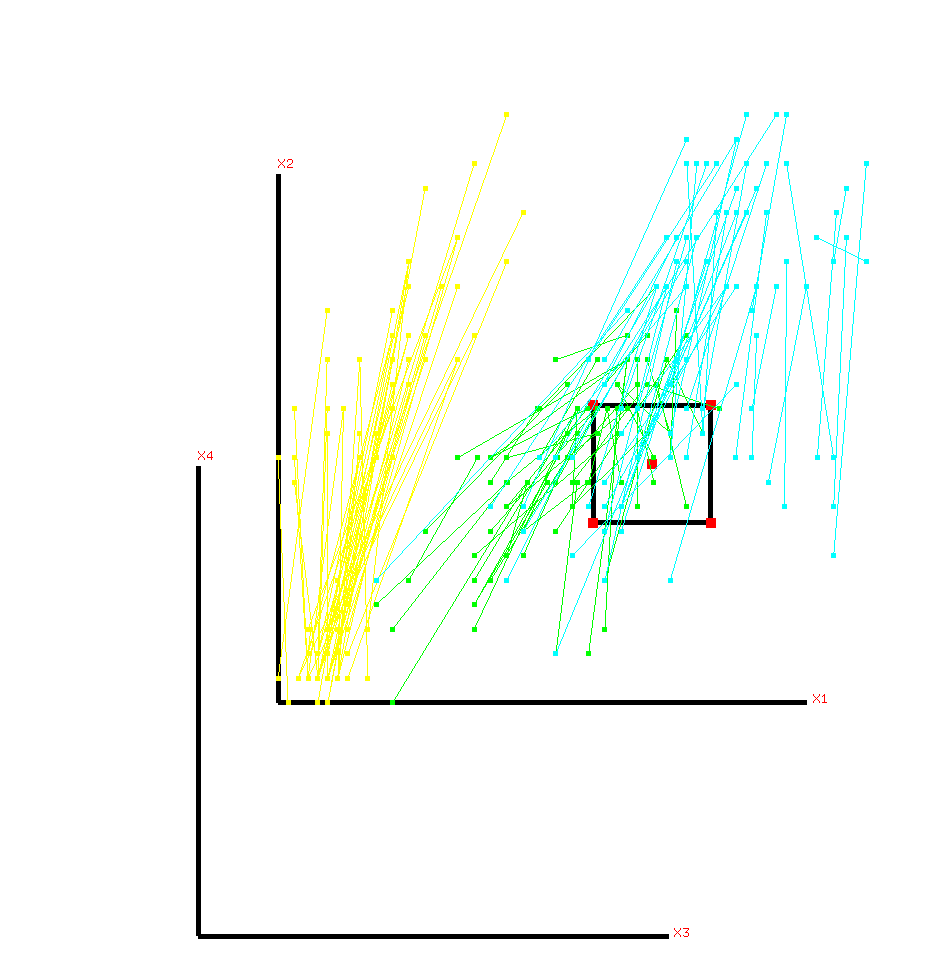
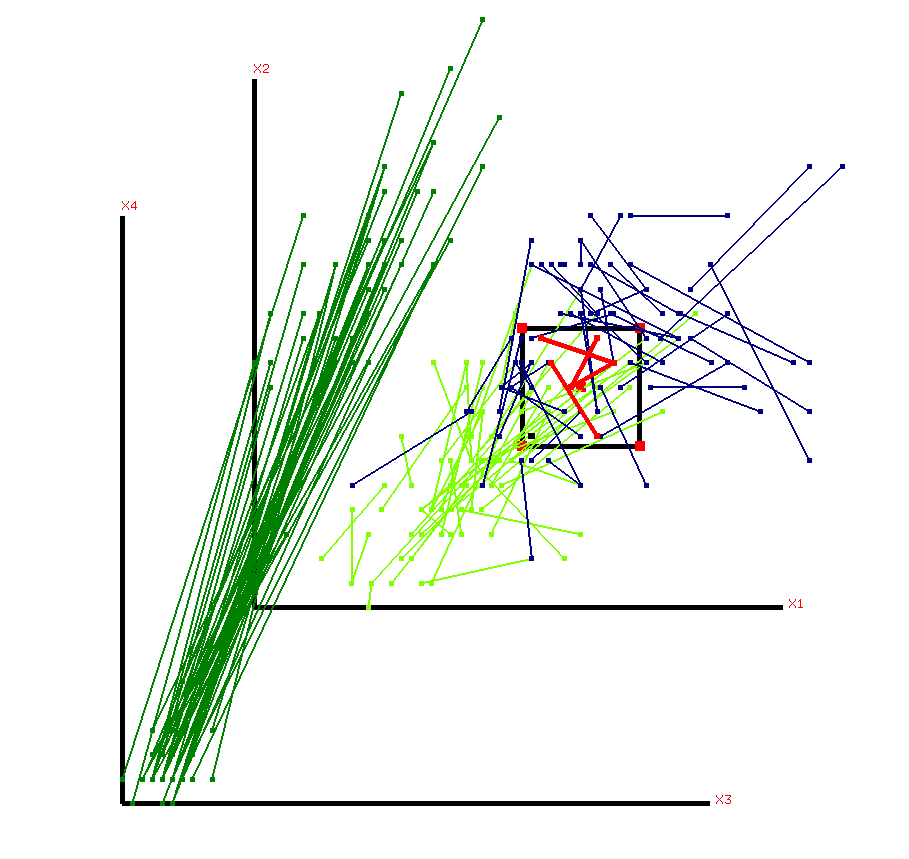
update

diff --git a/Iris_PSPC.py b/Iris_PSPC.py
@@ -15,12 +15,16 @@ iris_data[numerical_cols] = scaler.fit_transform(iris_data[numerical_cols])
 
 iris_data.to_csv('normalized_iris.csv', index=False)
 class_colors = {
-    'Iris-setosa': (1.0, 1.0, 0.0),  
-    'Iris-versicolor': (0.0,  0.5, 0.0),  
+    'Iris-setosa': (0, 0.5, 0.0),  
+    'Iris-versicolor': (0.5 , 1, 0.0),  
     'Iris-virginica': (0.0, 0.0, 0.5)#dark blue
 }
 
-
+class_highlight = {
+    'Iris-setosa': (0, 0, 0.0),  
+    'Iris-versicolor': (0,  0, 0.0),  
+    'Iris-virginica': (1.0, 0.0, 0.0)
+}
 
 def drawText(x, y, text):
     glRasterPos2f(x, y)
@@ -30,10 +34,10 @@ def drawText(x, y, text):
 def find_center():
     virginica_df = iris_data[iris_data['class'] == 'Iris-virginica']
     mean_values = virginica_df.drop(columns=['class']).mean()
-    mean_values['sepal_length']= 0.555555556
-    mean_values['sepal_width']= 0.375
-    mean_values['petal_length']= 0.779661017
-    mean_values['petal_width']=  0.708333333
+    # mean_values['sepal_length']= 0.545
+    # mean_values['sepal_width']= 0.363333
+    # mean_values['petal_length']= 0.662034
+    # mean_values['petal_width']=  0.656667
     return mean_values['sepal_length'], mean_values['sepal_width'], mean_values['petal_length'], mean_values['petal_width']
     
 def draw_axes():
@@ -53,11 +57,11 @@ def draw_axes():
 
     # X3
     glVertex2f(a - c, b - d)
-    glVertex2f(a - c + 0.8, b - d)
+    glVertex2f(a - c + 1, b - d)
 
     # X4
     glVertex2f(a - c , b - d)
-    glVertex2f(a - c, b - d + 0.8)
+    glVertex2f(a - c, b - d + 1)
 
     # Point connected line
     glVertex2f(a - 0.1, b + 0.1)
@@ -91,8 +95,8 @@ def draw_axes():
     # Label
     drawText(0.91, 0.0, "X1")
     drawText(0.0, 0.91, "X2")
-    drawText(a-c+0.8+0.01,b-d, "X3")
-    drawText(a-c,b-d+0.8+0.01, "X4")  
+    drawText(a-c+1+0.01,b-d, "X3")
+    drawText(a-c,b-d+1+0.01, "X4")  
 
 selected_points = []
 
@@ -107,40 +111,40 @@ def draw_iris_data():
     
     # Draw the rest cases
     for index, row in iris_data.iterrows():
-        if not (a - 0.1 <= row['sepal_length'] <= a + 0.1) or not (a - 0.1 <= row['petal_length'] <= a + 0.1) or \
-           not (b - 0.1 <= row['sepal_width'] <= b + 0.1) or not (b - 0.1 <= row['petal_width'] <= b + 0.1):
+        if not (a - 0.1 <= row['sepal_length'] <= a + 0.1) or not (a - 0.1 <= row['petal_length']+(a-c) <= a + 0.1) or \
+           not (b - 0.1 <= row['sepal_width'] <= b + 0.1) or not (b - 0.1 <= row['petal_width'] +(b-d)<= b + 0.1):
             glPointSize(0.5)
             glLineWidth(2)
             glColor3f(*class_colors[row['class']])
 
             glBegin(GL_LINES)
             glVertex2f(row['sepal_length'], row['sepal_width'])
-            glVertex2f(row['petal_length'], row['petal_width'])
+            glVertex2f(row['petal_length']+(a-c), row['petal_width']+(b-d))
             glEnd()
 
             glPointSize(5.0)
             glBegin(GL_POINTS)
             glVertex2f(row['sepal_length'], row['sepal_width'])
-            glVertex2f(row['petal_length'], row['petal_width'])
+            glVertex2f(row['petal_length']+(a-c), row['petal_width']+(b-d))
             glEnd()
 
     # Draw the highlighted cases on top
     for index, row in iris_data.iterrows():
-        if (a - 0.1 <= row['sepal_length'] <= a + 0.1) and (a - 0.1 <= row['petal_length'] <= a + 0.1) and \
-           (b - 0.1 <= row['sepal_width'] <= b + 0.1) and (b - 0.1 <= row['petal_width'] <= b + 0.1):
-            glPointSize(1.5)
+        if (a - 0.1 <= row['sepal_length'] <= a + 0.1) and (a - 0.1 <= row['petal_length'] +(a-c)<= a + 0.1) and \
+           (b - 0.1 <= row['sepal_width'] <= b + 0.1) and (b - 0.1 <= row['petal_width'] +(b-d)<= b + 0.1):
+            glPointSize(5.5)
             glLineWidth(5.0)
-            glColor3f(1.5, 0.0, 0.0)  # Red for highlighted cases
+            glColor3f(*class_highlight[row['class']])  # Red for highlighted cases
 
             glBegin(GL_LINES)
             glVertex2f(row['sepal_length'], row['sepal_width'])
-            glVertex2f(row['petal_length'], row['petal_width'])
+            glVertex2f(row['petal_length']+(a-c), row['petal_width']+(b-d))
             glEnd()
 
-            glPointSize(5.0)
+            glPointSize(5.5)
             glBegin(GL_POINTS)
             glVertex2f(row['sepal_length'], row['sepal_width'])
-            glVertex2f(row['petal_length'], row['petal_width'])
+            glVertex2f(row['petal_length']+(a-c), row['petal_width']+(b-d))
             glEnd()
 
     glutSwapBuffers()

diff --git a/in_square.py b/in_square.py
@@ -14,8 +14,8 @@ iris_data[numerical_cols] = scaler.fit_transform(iris_data[numerical_cols])
 selected_points = []
 class_colors = {
     'Iris-setosa': (1.0, 1.0, 0.0),  # yellow
-    'Iris-versicolor': (0.0, 1.0, 0.0),  # green
-    'Iris-virginica': (0.0, 1.0, 1.0)  # cyan
+    'Iris-versicolor': (0.0, 0.0, 0.0),  # green
+    'Iris-virginica': (1.0, 0.0, 0.0)  # cyan
 }
 
 # Normalized file
@@ -30,18 +30,18 @@ def drawText(x, y, text):
 def find_center():
     virginica_df = iris_data[iris_data['class'] == 'Iris-virginica']
     mean_values = virginica_df.drop(columns=['class']).mean()
-    mean_values['sepal_length']= 0.555555556
-    mean_values['sepal_width']= 0.375
-    mean_values['petal_length']= 0.779661017
-    mean_values['petal_width']=  0.708333333
+    # mean_values['sepal_length']= 0.555555556
+    # mean_values['sepal_width']= 0.375
+    # mean_values['petal_length']= 0.779661017
+    # mean_values['petal_width']=  0.708333333
     return mean_values['sepal_length'], mean_values['sepal_width'], mean_values['petal_length'], mean_values['petal_width']
 
 def draw_axes():
-    #a, b, c, d = find_center()
-    a= 0.555555556
-    b= 0.375
-    c=0.779661017
-    d= 0.708333333
+    a, b, c, d = find_center()
+    # a= 0.555555556
+    # b= 0.375
+    # c=0.779661017
+    # d= 0.708333333
     print(f"Sepal Length: {a}, Sepal Width: {b}, Petal Length: {c}, Petal Width: {d}")
 
     glLineWidth(5.0)
@@ -50,11 +50,11 @@ def draw_axes():
 
     # X1
     glVertex2f(0.0, 0.0)
-    glVertex2f(0.9, 0.0)
+    glVertex2f(1.05, 0.0)
 
     # X2
     glVertex2f(0.0, 0.0)
-    glVertex2f(0.0, 0.9)
+    glVertex2f(0.0, 1.05)
 
     # X3
     glVertex2f(a - c, b - d)
@@ -100,11 +100,11 @@ def draw_axes():
     drawText(a-c,b-d+0.8+0.01, "X4")  
 
 def draw_iris_data():
-    #a, b, c, d = find_center()
-    a= 0.555555556
-    b= 0.375
-    c=0.779661017
-    d= 0.708333333
+    a, b, c, d = find_center()
+    # a= 0.555555556
+    # b= 0.375
+    # c=0.779661017
+    # d= 0.708333333
     glClear(GL_COLOR_BUFFER_BIT | GL_DEPTH_BUFFER_BIT)
     glLoadIdentity()
 
@@ -113,21 +113,21 @@ def draw_iris_data():
     draw_axes()
 
     for index, row in iris_data.iterrows():
-        if (a - 0.1 <= row['sepal_length'] <= a + 0.1) and (a - 0.1 <= (row['petal_length'] +(a-c))<= a + 0.1) and \
-                (b - 0.1 <= row['sepal_width']  <= b + 0.1) and (b - 0.1 <= (row['petal_width'] +(b-d))<= b + 0.1):
+        if (a - 0.1 <= row['sepal_length'] <= a + 0.1) and (a - 0.1 <= row['petal_length'] + (a-c) <= a + 0.1) and \
+                (b - 0.1 <= row['sepal_width'] <= b + 0.1) and (b - 0.1 <= row['petal_width'] +(b-d) <= b + 0.1):
             glPointSize(0.1)
             glLineWidth(0.1)
             glColor3f(*class_colors[row['class']])
 
             glBegin(GL_LINES)
             glVertex2f(row['sepal_length'], row['sepal_width'])
-            glVertex2f((row['petal_length']+(a-c)), (row['petal_width']+(b-d)))
+            glVertex2f(row['petal_length']+(a-c), row['petal_width']+ (b-d))
             glEnd()
 
             glPointSize(5.0)
             glBegin(GL_POINTS)
             glVertex2f(row['sepal_length'], row['sepal_width'])
-            glVertex2f((row['petal_length']+(a-c)), (row['petal_width']+(b-d)))
+            glVertex2f(row['petal_length'] +(a-c), row['petal_width']+ (b-d))
             glEnd()
             selected_points.append(row)
             selected_points_df = pd.DataFrame(selected_points)
